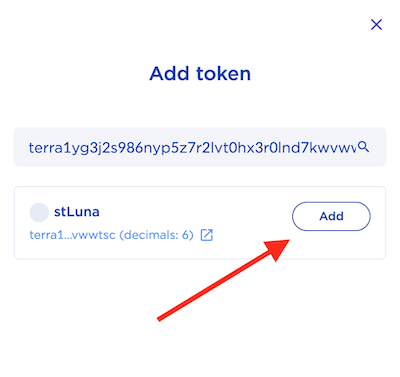
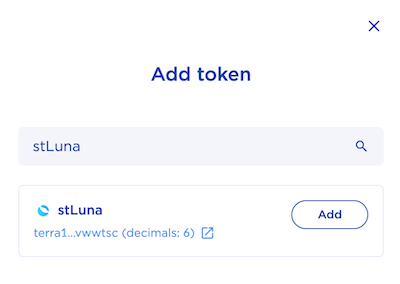
Adding stLuna to Station doc updated

diff --git a/docs/webapp/terra_station.md b/docs/webapp/terra_station.md
@@ -1,14 +1,15 @@
 # Addind stLuna token to Terra Station
 
-stLuna token is pretty new, so it could not be shown in your Terra Station. To fix it, follow the next steps:
+To see your stLuna balance in Terra Wallet you need to add the stLuna CW20 token. Follow the next steps:
 
 1. Open your Terra station wallet and click "Add token button":
 
 ![Adding new token](/img/wallet_1.png)
 
-2. Add the token with `terra1yg3j2s986nyp5z7r2lvt0hx3r0lnd7kwvwwtsc` address:
+2. Add the token with `stLuna` name:
 
 ![Adding stLuna](/img/wallet_2.png)
 
 3. Done! Your stLuna balance is in your Terra Station wallet now.
 
+![stLuna balance](/img/wallet_3.png)
